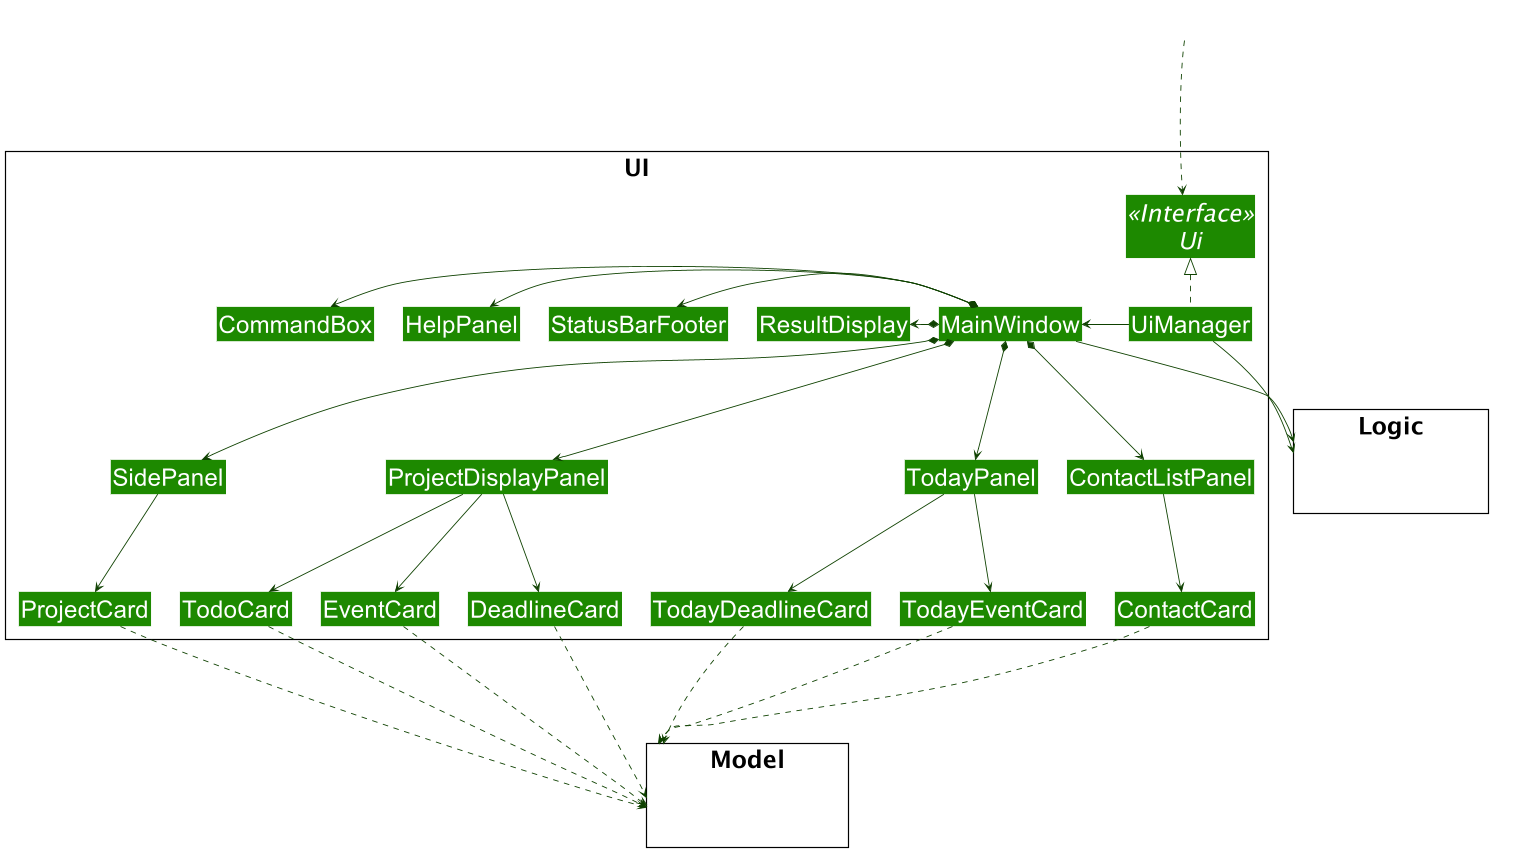
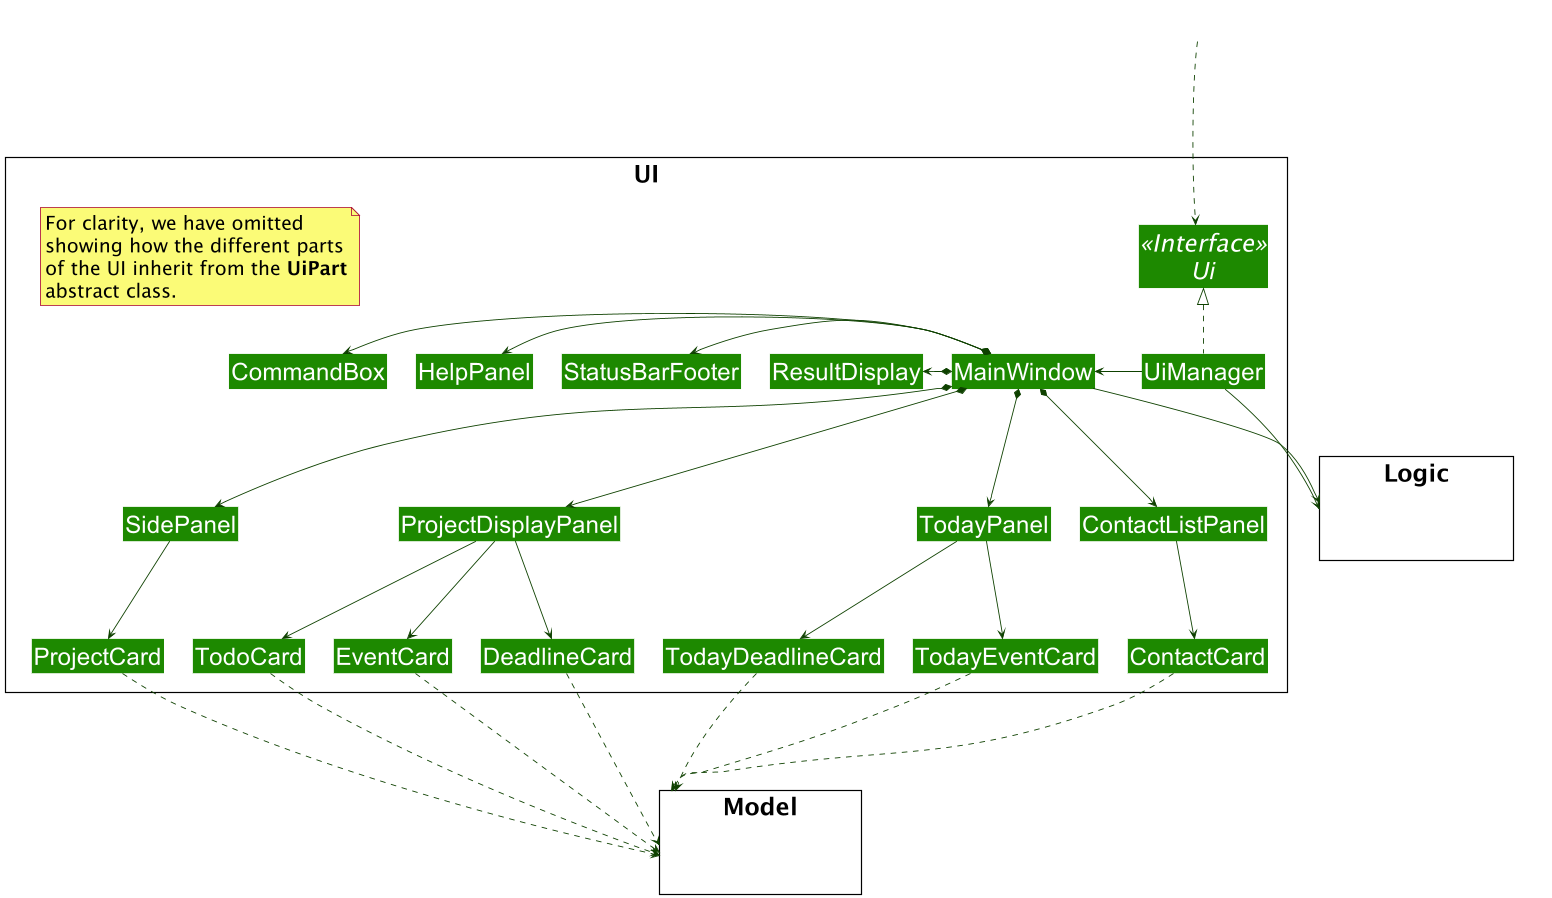
Update Model section

diff --git a/docs/DeveloperGuide.md b/docs/DeveloperGuide.md
@@ -66,13 +66,9 @@ The sections below give more details of each component.
 
 The UI consists of a `MainWindow` that is made up of parts e.g.`CommandBox`, `ResultDisplay`, `ContactListPanel`, `StatusBarFooter` etc. All these, including the `MainWindow`, inherit from the abstract `UiPart` class.
 
-<div markdown="span" class="alert alert-info">:information_source: **Note:** 
-For clarity, we have omitted showing how the different parts of the UI inherit from the `UiPart` abstract class in the class diagram above.
-</div>
-
 The `UI` component uses JavaFx UI framework. The layout of these UI parts are defined in matching `.fxml` files that are in the `src/main/resources/view` folder. For example, the layout of the [`MainWindow`](https://github.com/se-edu/addressbook-level3/tree/master/src/main/java/seedu/address/ui/MainWindow.java) is specified in [`MainWindow.fxml`](https://github.com/se-edu/addressbook-level3/tree/master/src/main/resources/view/MainWindow.fxml)
 
-The `UI` component:
+The `UI` component,
 
 * Executes user commands using the `Logic` component.
 * Listens for changes to `Model` data so that the UI can be updated with the modified data.
@@ -86,15 +82,15 @@ The `UI` component:
 
 1. `Logic` uses the `ColabParser` class to parse the user command.
 1. This results in a `Command` object which is executed by the `LogicManager`.
-1. The command execution can affect the `Model` (e.g. adding a contact).
+1. The command execution can affect the `Model` (e.g. adding a project).
 1. The result of the command execution is encapsulated as a `CommandResult` object which is passed back to the `Ui`.
 1. In addition, the `CommandResult` object also contains a `UiCommand` object, which encapsulates information needed to instruct the `Ui` to perform certain actions, such as displaying help to the user.
 
-Given below is the Sequence Diagram for interactions within the `Logic` component for the `execute("delete 1")` API call.
+Given below is the Sequence Diagram for interactions within the `Logic` component for the `execute("deleteP 1")` API call.
 
-![Interactions Inside the Logic Component for the `delete 1` Command](images/DeleteSequenceDiagram.png)
+![Interactions Inside the Logic Component for the `deleteP 1` Command](images/DeleteSequenceDiagram.png)
 
-<div markdown="span" class="alert alert-info">:information_source: **Note:** The lifeline for `DeleteCommandParser` should end at the destroy marker (X) but due to a limitation of PlantUML, the lifeline reaches the end of diagram.
+<div markdown="span" class="alert alert-info">:information_source: **Note:** The lifeline for `DeleteProjectCommandParser` should end at the destroy marker (X) but due to a limitation of PlantUML, the lifeline reaches the end of diagram.
 </div>
 
 ### Model component
@@ -105,17 +101,21 @@ Given below is the Sequence Diagram for interactions within the `Logic` componen
 
 The `Model`,
 
-* stores a `UserPref` object that represents the user’s preferences.
-* stores the address book data.
-* exposes an unmodifiable `ObservableList<Contact>` that can be 'observed' e.g. the UI can be bound to this list so that the UI automatically updates when the data in the list change.
-* does not depend on any of the other three components.
+* stores a `UserPref` object that represents the user's preferences.
+* stores the `ColabFolder` data, which contains data of contacts and projects.
+* exposes an unmodifiable `ObservableList<Contact>` and `ObservableList<Project>` that can be 'observed' e.g. the UI can be bound to this list so that the UI automatically updates when the data in the list change.
+* does not depend on any of the other components.
+
+#### Inner Workings
+
+![Structure of the Contact Component](images/ContactClassDiagram.png)
 
 
-<div markdown="span" class="alert alert-info">:information_source: **Note:** An alternative (arguably, a more OOP) model is given below. It has a `Tag` list in the `AddressBook`, which `Contact` references. This allows `AddressBook` to only require one `Tag` object per unique `Tag`, instead of each `Contact` needing their own `Tag` object.<br>
-![BetterModelClassDiagram](images/BetterModelClassDiagram.png)
+A `Contact` stores a `Name`, `Email`, `Phone` number, `Address` and zero or more `Tag`s.
 
-</div>
+![Structure of the Contact Component](images/ProjectClassDiagram.png)
 
+A `Project` stores an `EventList`, `DeadlineList`, `TodoList` and a `GroupmateList`. The `EventList`, `DeadlineList`, `TodoList` and `GroupmateList` stores zero or more `Repeatable`, `CompletableDeadline`, `CompletableTodo` and `Groupmate` objects respectively.
 
 ### Storage component
 
